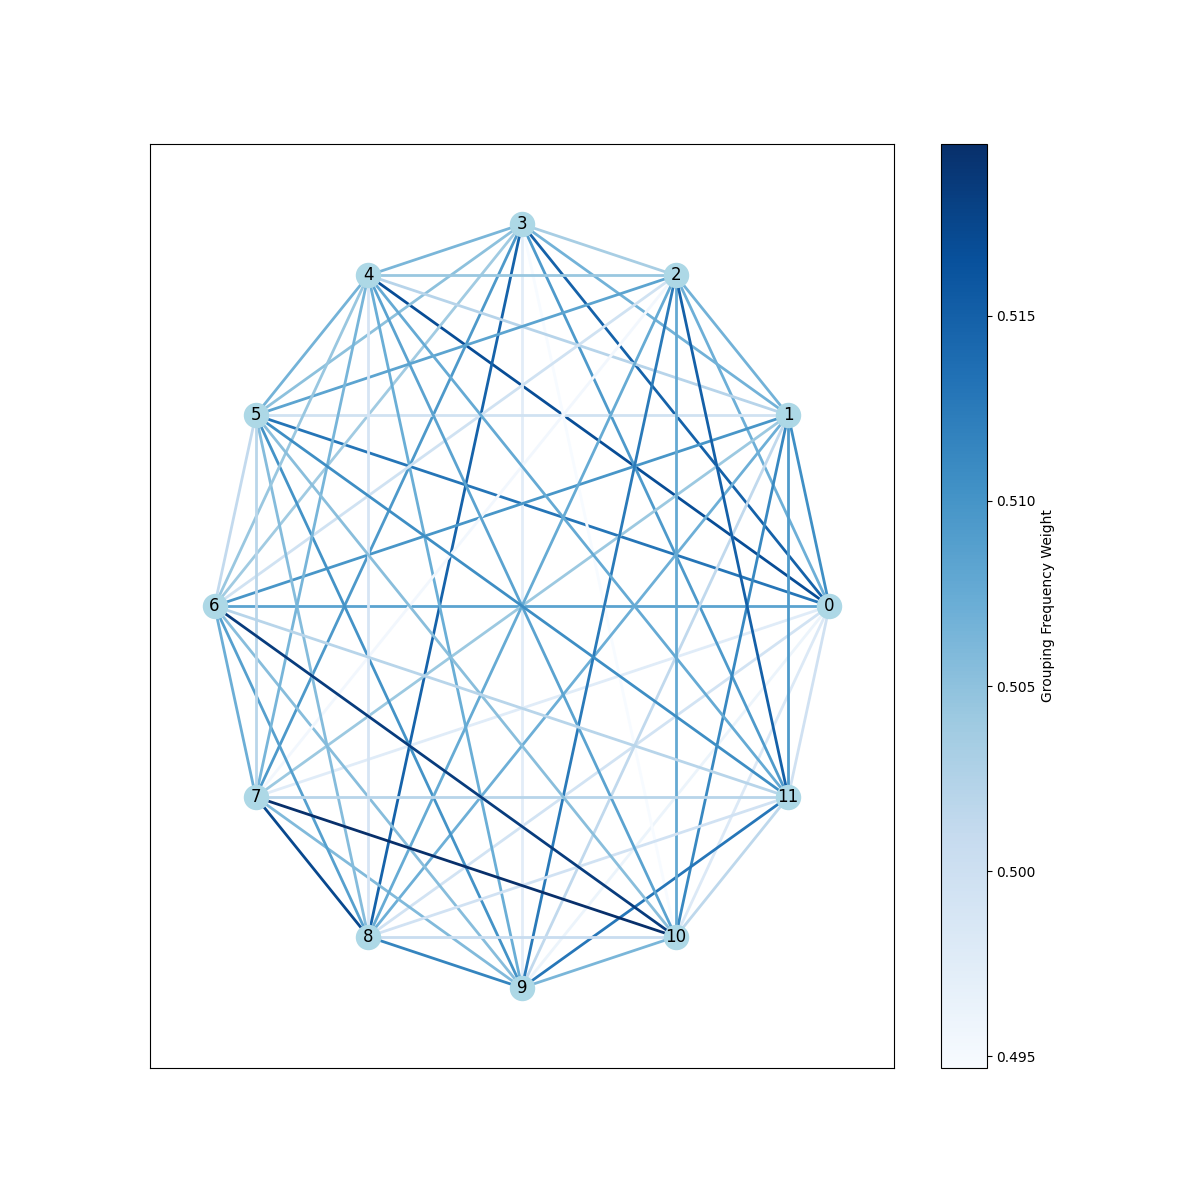
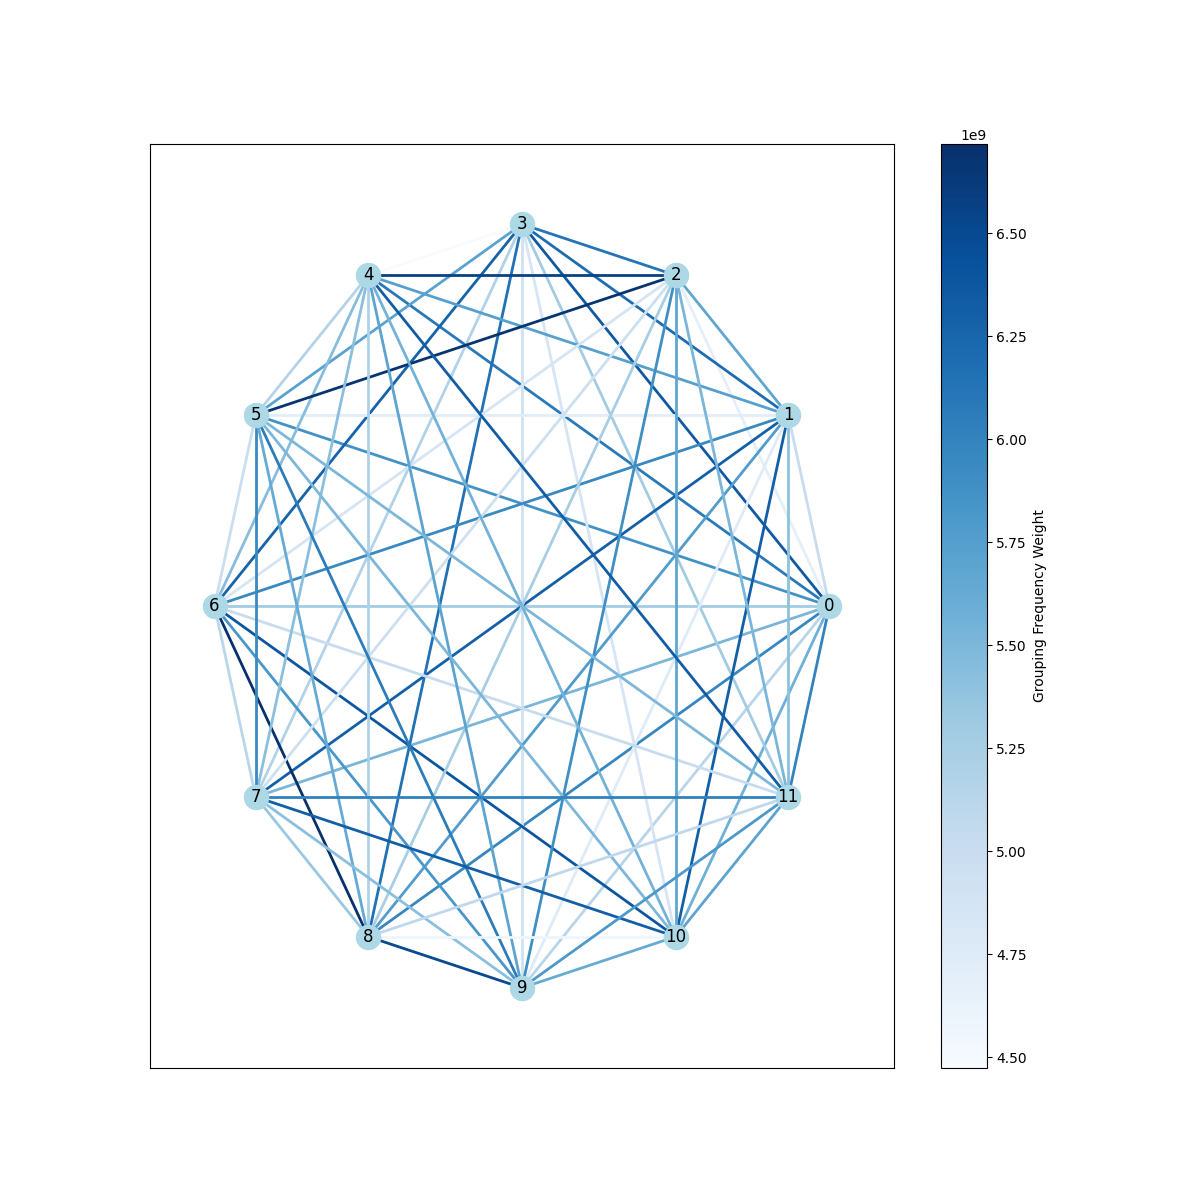
retry-2.6

diff --git a/figure/graph.py b/figure/graph.py
@@ -24,8 +24,8 @@ with open("/data/yjzhang/desktop/try/key-driven-gqa/calculate/group_all_aline.tx
             test_acc = float(parts[1])  # 解析准确度
 
             # 使用指数函数对test_acc进行放大
-            adjusted_acc = test_acc
-            # adjusted_acc = math.exp(50*test_acc)
+            # adjusted_acc = test_acc
+            adjusted_acc = math.exp(45*test_acc)
 
             # 使用正则表达式查找分组对
             groups = pattern.findall(groups_part)

diff --git a/calculate/reading_csv.py b/calculate/reading_csv.py
@@ -1,7 +1,7 @@
 import pandas as pd
 
 # 指数平滑函数
-def exponential_smoothing(data, alpha=0.1):
+def exponential_smoothing(data, alpha=0.5):
     smoothed_data = data[-5:]  # 取最后五个数据
     smoothed_value = smoothed_data[0]  # 初始化第一个平滑值为最后五个数中的第一个
     for i in range(1, len(smoothed_data)):
